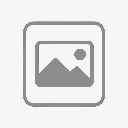
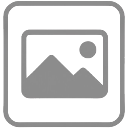
필터 지속 적용, 아이콘 수정 및 popup 관련 코드 제거

diff --git a/content.js b/content.js
@@ -1,90 +1,104 @@
-// 이미지 토글 처리를 위한 클래스 명 정의
 const CLASS_HIDDEN = 'image-filter-hidden';
-const CLASS_BLUR = 'image-filter-blur';
-const CLASS_RESIZE = 'image-filter-resize';
 const CLASS_BG_HIDE = 'image-filter-background';
 
-let isFilterEnabled = false; // 필터 상태 캐싱
+let isFilterEnabled = false;
 
-// 필터용 스타일 정의
 const style = document.createElement('style');
-style.textContent = `
-  .${CLASS_HIDDEN} {
-    display: none !important;
-    visibility: hidden !important;
-  }
-
-  .${CLASS_BLUR} {
-    filter: blur(8px) !important;
-  }
-
-  .${CLASS_RESIZE} {
-    width: 50% !important;
-    height: auto !important;
-    object-fit: contain !important;
-  }
-
-  .${CLASS_BG_HIDE} {
-    background-image: none !important;
-  }
-`;
+style.id = 'image-filter-style';
+style.textContent = generateStyleText();
 document.documentElement.prepend(style);
 
-// 필터 적용
+function generateStyleText() {
+  return `
+    .${CLASS_HIDDEN} {
+      display: none !important;
+      visibility: hidden !important;
+    }
+    .${CLASS_BG_HIDE} {
+      background-image: none !important;
+    }
+    img[data-image-filter-prehide="true"] {
+      display: none !important;
+      visibility: hidden !important;
+    }
+  `;
+}
+
+function updateStyle() {
+  const s = document.getElementById('image-filter-style');
+  if (s) s.textContent = generateStyleText();
+}
+
+// 이미지가 DOM에 추가되는 즉시 숨김 처리
+function preHideImages() {
+  // 아직 숨겨지지 않은 img에 data 속성 추가
+  document.querySelectorAll('img:not([data-image-filter-prehide])').forEach(img => {
+    img.setAttribute('data-image-filter-prehide', 'true');
+  });
+}
+
+// prehide 속성 제거 (복구)
+function removePreHideImages() {
+  document.querySelectorAll('img[data-image-filter-prehide]').forEach(img => {
+    img.removeAttribute('data-image-filter-prehide');
+  });
+}
+
 function applyFilters() {
-  try {
-    const images = document.querySelectorAll("img");
-    images.forEach((img) => {
-      img.classList.add(CLASS_HIDDEN, CLASS_BLUR, CLASS_RESIZE);
+  preHideImages(); // 1차적으로 즉시 숨김
+
+  chrome.storage.local.get(["selectedFilter"], (result) => {
+    // 실제 필터 적용
+    document.querySelectorAll("img").forEach((img) => {
+      img.classList.add(CLASS_HIDDEN);
+      img.removeAttribute('data-image-filter-prehide'); // class 방식으로 전환
     });
 
-    const bgElements = document.querySelectorAll("*");
-    bgElements.forEach((el) => {
+    document.querySelectorAll("*").forEach((el) => {
       const bg = el.style.backgroundImage || window.getComputedStyle(el).getPropertyValue("background-image");
       if (bg && bg !== "none") {
         el.classList.add(CLASS_BG_HIDE);
       }
     });
-  } catch (e) {
-    console.warn("[Image Filter] 필터 적용 중 오류:", e);
-  }
+  });
 }
 
-// 필터 해제
 function removeFilters() {
-  try {
-    const images = document.querySelectorAll("img");
-    images.forEach((img) => {
-      img.classList.remove(CLASS_HIDDEN, CLASS_BLUR, CLASS_RESIZE);
-    });
+  document.querySelectorAll("img").forEach((img) => {
+    img.classList.remove(CLASS_HIDDEN);
+  });
 
-    const bgElements = document.querySelectorAll("*");
-    bgElements.forEach((el) => {
-      el.classList.remove(CLASS_BG_HIDE);
-    });
-  } catch (e) {
-    console.warn("[Image Filter] 필터 해제 중 오류:", e);
-  }
+  document.querySelectorAll("*").forEach((el) => {
+    el.classList.remove(CLASS_BG_HIDE);
+  });
+
+  removePreHideImages(); // prehide 속성도 복구
 }
 
-// DOM 변화 즉시 처리
 function observeDOMForFilterApplication() {
-  const observer = new MutationObserver(() => {
+  const observer = new MutationObserver((mutations) => {
     if (isFilterEnabled) {
-      try {
-        applyFilters();
-      } catch (e) {
-        console.warn("[Image Filter] 감지 필터 적용 실패:", e);
-      }
+      // 새로 추가된 img를 즉시 숨김
+      mutations.forEach(mutation => {
+        mutation.addedNodes.forEach(node => {
+          if (node.nodeType === 1) {
+            if (node.tagName === 'IMG') {
+              node.setAttribute('data-image-filter-prehide', 'true');
+            } else if (node.querySelectorAll) {
+              node.querySelectorAll('img').forEach(img => {
+                img.setAttribute('data-image-filter-prehide', 'true');
+              });
+            }
+          }
+        });
+      });
+      applyFilters();
     }
   });
 
   const startObserving = () => {
     if (document.body) {
-      observer.observe(document.body, {
-        childList: true,
-        subtree: true
-      });
+      observer.observe(document.body, { childList: true, subtree: true });
     } else {
       requestAnimationFrame(startObserving);
     }
@@ -93,17 +107,15 @@ function observeDOMForFilterApplication() {
   startObserving();
 }
 
-// 메시지 수신
-chrome.runtime.onMessage.addListener((message, sender, sendResponse) => {
-  switch (message.action) {
+// DOMContentLoaded 이전에 최대한 빨리 숨김 적용
+preHideImages();
+
+chrome.runtime.onMessage.addListener((message) => {
+  const { action } = message;
+
+  switch (action) {
     case "hideImages":
-      toggleImageClass(CLASS_HIDDEN);
-      break;
-    case "blurImages":
-      toggleImageClass(CLASS_BLUR);
-      break;
-    case "resizeImages":
-      toggleImageClass(CLASS_RESIZE);
+      applyFilters();
       break;
     case "enableAllFilters":
       isFilterEnabled = true;
@@ -113,34 +125,13 @@ chrome.runtime.onMessage.addListener((message, sender, sendResponse) => {
       isFilterEnabled = false;
       removeFilters();
       break;
-    default:
-      console.warn(`[Image Filter] 알 수 없는 action: ${message.action}`);
   }
 });
 
-// 개별 필터 토글
-function toggleImageClass(className) {
-  const images = document.querySelectorAll("img");
-  images.forEach((img) => {
-    img.classList.toggle(className);
-  });
-
-  const bgElements = document.querySelectorAll("*");
-  bgElements.forEach((el) => {
-    const bg = el.style.backgroundImage || window.getComputedStyle(el).getPropertyValue("background-image");
-    if (bg && bg !== "none") {
-      el.classList.toggle(CLASS_BG_HIDE);
-    }
-  });
-}
-
-// 초기 상태 불러와 필터 적용
 chrome.storage.local.get(["filterEnabled"], (result) => {
   isFilterEnabled = result.filterEnabled ?? false;
-  if (isFilterEnabled) {
-    applyFilters();
-  }
+  updateStyle();
+  if (isFilterEnabled) applyFilters();
 });
 
-// DOM 감시 시작
 observeDOMForFilterApplication();

diff --git a/background.js b/background.js
@@ -1,22 +1,36 @@
-// 확장 프로그램 설치 시 context menu 등록
+const DEFAULT_SETTINGS = {
+  selectedFilter: "hideImages"
+};
+
 chrome.runtime.onInstalled.addListener(() => {
   chrome.contextMenus.removeAll(() => {
-    chrome.contextMenus.create({ id: "hideImages", title: "이미지 숨기기", contexts: ["all"] });
-    chrome.contextMenus.create({ id: "blurImages", title: "이미지 블러 처리", contexts: ["all"] });
-    chrome.contextMenus.create({ id: "resizeImages", title: "이미지 크기 축소", contexts: ["all"] });
+    chrome.contextMenus.create({ id: "hideImages", title: "이미지 숨기기", type: "radio", contexts: ["all"], checked: true });
+  });
+
+  chrome.storage.local.set(DEFAULT_SETTINGS);
+});
+
+chrome.contextMenus.onClicked.addListener((info, tab) => {
+  if (!tab.id) return;
+
+  chrome.storage.local.set({ selectedFilter: info.menuItemId });
+
+  chrome.storage.local.get(["filterEnabled"], (result) => {
+    if (!result.filterEnabled) return;
+
+    chrome.tabs.sendMessage(tab.id, {
+      action: info.menuItemId
+    });
   });
 });
 
-// 아이콘 클릭 시 필터 ON/OFF 전환
 chrome.action.onClicked.addListener((tab) => {
-  chrome.storage.local.get(["filterEnabled"], (result) => {
+  chrome.storage.local.get(["filterEnabled", "selectedFilter"], (result) => {
     const isEnabled = result.filterEnabled ?? false;
     const newState = !isEnabled;
 
-    // 상태 저장
     chrome.storage.local.set({ filterEnabled: newState });
 
-    // 아이콘 업데이트
     chrome.action.setIcon({
       tabId: tab.id,
       path: {
@@ -24,28 +38,19 @@ chrome.action.onClicked.addListener((tab) => {
       }
     });
 
-    if (!tab.id) return;
-
-    // content.js에 메시지 직접 전송
     chrome.tabs.sendMessage(tab.id, {
-      action: newState ? "enableAllFilters" : "disableAllFilters"
-    }, () => {
-      if (chrome.runtime.lastError) {
-        console.warn("필터 메시지 전송 실패:", chrome.runtime.lastError.message);
-      }
+      action: newState ? (result.selectedFilter ?? "hideImages") : "disableAllFilters"
     });
   });
 });
 
-// 새로고침/탭 전환 시 아이콘 상태 동기화
 chrome.tabs.onUpdated.addListener((tabId, changeInfo, tab) => {
   if (changeInfo.status === "complete") {
     chrome.storage.local.get(["filterEnabled"], (result) => {
-      const isEnabled = result.filterEnabled ?? false;
       chrome.action.setIcon({
         tabId,
         path: {
-          "128": isEnabled ? "icons/icon128_on.png" : "icons/icon128_off.png"
+          "128": result.filterEnabled ? "icons/icon128_on.png" : "icons/icon128_off.png"
         }
       });
     });

diff --git a/README.md b/README.md
@@ -11,8 +11,6 @@
 image-filter-extension/
 ├── background.js
 ├── content.js
-├── popup.html
-├── popup.js
 ├── styles/
 │   └── popup.css
 ├── content.js
@@ -26,24 +24,22 @@ image-filter-extension/
 |------------------|--------------------------------|
 | manifest.json | 확장 프로그램의 설정 및 권한 정의(MV3 기준) |
 | background.js | 우클릭 메뉴 등록 및 메시지 전달 핸들링 |
-| content.js | 메시지 수신 후 이미지 숨김/블러/크기 조절 처리 |
-| popup.html | 확장 프로그램 아이콘 클릭 시 표시되는 설정 UI |
-| popup.js | 토글 스위치 제어 및 content.js로 메시지 전송 |
+| content.js | 메시지 수신 후 이미지 숨김 처리 |
 | styles/popup.css | 팝업 UI의 시각적 구성 |
 
 ## 기능 요약
-- 확장 아이콘 클릭 시 이미지 처리 ON/OFF(필터 활성화 상태에 따라 아이콘 자동 변경)
+- 확장 아이콘 클릭 시 이미지 숨김 ON/OFF(필터 활성화 상태에 따라 아이콘 자동 변경)
 - 우클릭 메뉴(Context Menu)를 통해 기능 수행
   - 이미지 숨기기
-  - 이미지 블러 처리
-  - 이미지 크기 축소
 
 ## 실행 방법(과정)
-### Load
-1. Chrome 주소창에 `chrome://extensions/` 입력 후 진입
-2. 우측 상단 [개발자 모드] ON
-3. [압축해제된 확장 프로그램 로드] 클릭
-4. `image-filter-extension` 디렉토리 선택
+1. [해당 저장소](https://github.com/kgyujin/image-filter-extension) **[Release]** 페이지로 이동
+2. 가장 최신 릴리즈의 **Assets**에서 ZIP 파일 다운로드
+3. 다운로드한 ZIP 파일 압축 해제
+4. Chrome 주소창에 `chrome://extensions/` 입력
+5. 우측 상단 [개발자 모드] 활성화
+6. **[압축해제된 확장 프로그램 로드]** 클릭
+7. 방금 압축 해제한 폴더 선택
 
 ## 개발 및 테스트 명령어
 - 변경 사항 저장 후 리로드
